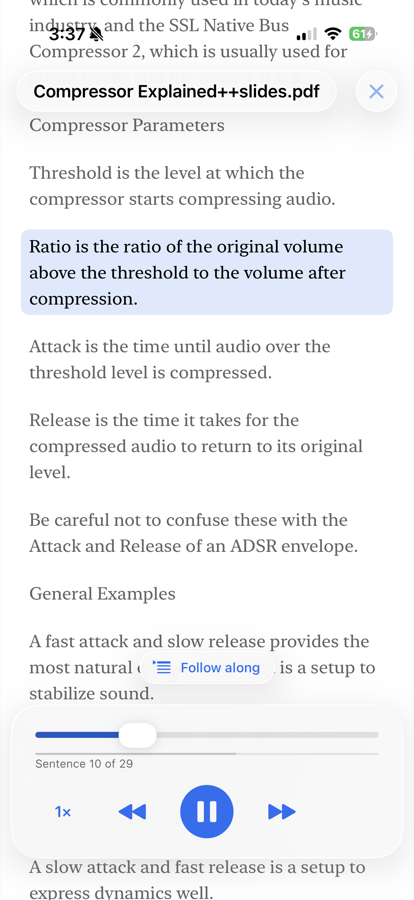
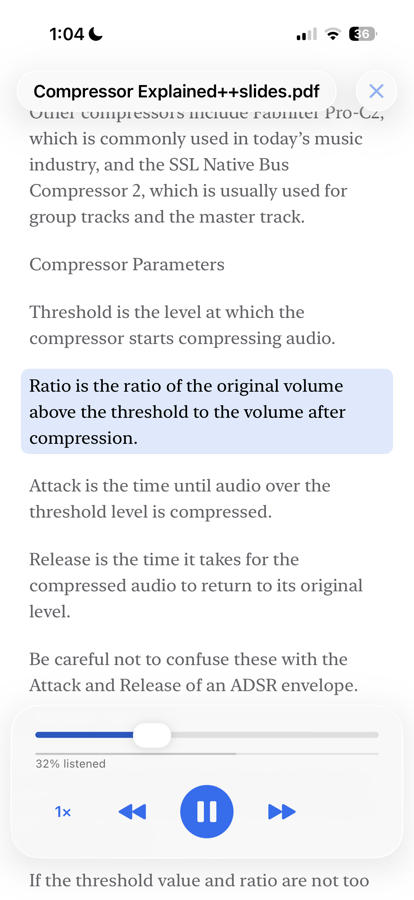
Refresh the Paper Reader screenshots
Swap in the Aug 27 captures of the library, follow-along, and settings
screens, and update the follow-along alt text to match what it now shows.
Also picks up in-progress notes on the latest app update and small copy
fixes elsewhere in the file.

diff --git a/src/data/case-studies.ts b/src/data/case-studies.ts
@@ -1,9 +1,6 @@
 export type CaseStudyBlock =
   | { type: "heading"; text: string }
   | { type: "text"; text: string }
-  // A list of lines. Bulleted by default; set ordered for a numbered one,
-  // where the count is part of what the lines say — the steps of a pipeline,
-  // in the order they run.
   | { type: "list"; items: string[]; ordered?: boolean }
   | { type: "quote"; text: string; attribution?: string }
   | { type: "image"; src: string; alt: string; caption?: string; crop?: string }
@@ -86,7 +83,7 @@ export const caseStudies: Record<string, CaseStudy> = {
       {
         type: "video",
         src: "/projects/loot-check-shark.mp4",
-        caption: "Finding the potential price of my shark painting",
+        caption: "Finding the price of my shark painting",
       },
       {
         type: "text",
@@ -169,7 +166,7 @@ export const caseStudies: Record<string, CaseStudy> = {
           },
           {
             src: "/projects/paper-reader-follow-along.png",
-            alt: "A paper being read aloud with the current sentence highlighted, the sentence count, and playback controls",
+            alt: "A paper being read aloud with the current sentence highlighted, how much has been listened to, and playback controls",
           },
         ],
       },
@@ -188,7 +185,7 @@ export const caseStudies: Record<string, CaseStudy> = {
           "Extract - PDFKit pulls text from the PDF and repairs spacing.",
           "Identify - Gemini text call identifies if the document is a paper or slides.",
           "Clean - Text is split into groups and each one gets a Gemini call to filter out citations, captions, headers, etc. while the prose is unchanged.",
-          "Segment - Apple NLTokenizer splits the clean script into sentences and ChunkPlanner moves them into groups of ~750 characters, ~50 seconds of speech.",
+          "Segment - Apple NLTokenizer splits the clean script into sentences and ChunkPlanner moves them into groups of ~750 characters, ~45 seconds of speech.",
           "Narrate - Each group goes to Gemini TTS, returns as a voice, and is cached on disk so it’s a one time cost.",
           "Display - Highlighted sentences are a guess by character length and re-syncs at the end of every group."
         ],
@@ -220,6 +217,13 @@ export const caseStudies: Record<string, CaseStudy> = {
       // too long delays the start. nothing plays until the first group exists. at 50 seconds, thats about a 20 second wait. if a group were 3 minutes of audio, i'd wait over a minute before hearing anything. 
       // too long wastes money when you skip. jump to a different part of the paper and whatever was being generated is paid for but never heard
       // about a minute was the best choice
+
+      // in the latest update Aug 27,2026, the narration speed can be set by the user from 0.75x-2x speed. 
+      // also, the first chunk/group of text is generated into audio before the paper is playable
+      // takes about 20 seconds to generate audio for the first chunk ~40 seconds of audio
+      // chunk 2 loads before chunk 1 finishes playing
+      // also fixed a ui design issue where the iphone time and battery were over the text making it hard to see. now the text doesnt reach that top part of the screen
+
 
       {
         type: "images",
